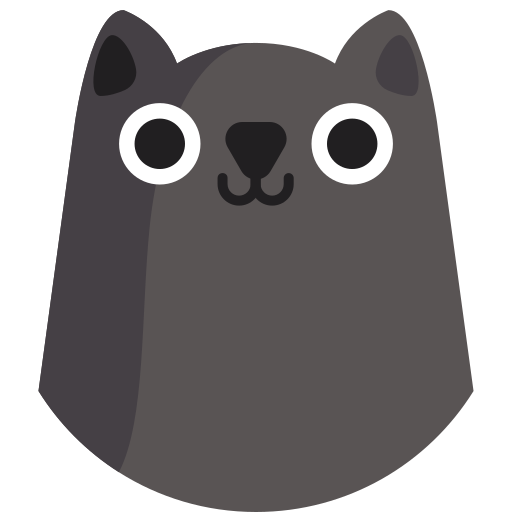
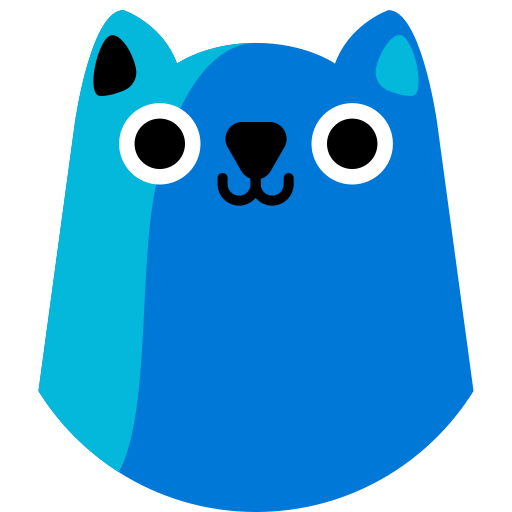
feat(windows): add launcher shortcut entrypoint
Route installer shortcuts through a lightweight launcher that starts the elevated task before falling back to the main executable. Build and verify the launcher during resource preparation, update CI resource checks, and remove the prior cross-integrity window message filter.

diff --git a/src-tauri/src/bin/routex-launcher.rs b/src-tauri/src/bin/routex-launcher.rs
@@ -1,0 +1,155 @@
+#![cfg_attr(target_os = "windows", windows_subsystem = "windows")]
+
+#[cfg(target_os = "windows")]
+mod windows_launcher {
+    use std::{
+        env,
+        ffi::c_void,
+        path::PathBuf,
+        process::Command,
+    };
+
+    use std::os::windows::process::CommandExt;
+
+    const CREATE_NO_WINDOW: u32 = 0x08000000;
+    const SW_SHOWNORMAL: i32 = 1;
+
+    #[link(name = "shell32")]
+    unsafe extern "system" {
+        fn ShellExecuteW(
+            hwnd: *mut c_void,
+            operation: *const u16,
+            file: *const u16,
+            parameters: *const u16,
+            directory: *const u16,
+            show_cmd: i32,
+        ) -> *mut c_void;
+    }
+
+    pub fn run() {
+        if run_elevate_task() {
+            return;
+        }
+
+        let _ = launch_main_exe();
+    }
+
+    fn run_elevate_task() -> bool {
+        Command::new(resolve_system_binary("schtasks.exe"))
+            .creation_flags(CREATE_NO_WINDOW)
+            .args(["/run", "/tn", routex_run_task_name()])
+            .status()
+            .map(|status| status.success())
+            .unwrap_or(false)
+    }
+
+    fn launch_main_exe() -> bool {
+        let Some(exe_path) = resolve_main_exe_path() else {
+            return false;
+        };
+        let Some(parent_dir) = exe_path.parent() else {
+            return false;
+        };
+
+        let params = env::args()
+            .skip(1)
+            .map(|arg| shell_execute_quote(&arg))
+            .collect::<Vec<_>>()
+            .join(" ");
+        let file = wide_null(exe_path.to_string_lossy());
+        let params = wide_null(&params);
+        let directory = wide_null(parent_dir.to_string_lossy());
+
+        let result = unsafe {
+            ShellExecuteW(
+                std::ptr::null_mut(),
+                std::ptr::null(),
+                file.as_ptr(),
+                params.as_ptr(),
+                directory.as_ptr(),
+                SW_SHOWNORMAL,
+            )
+        };
+
+        (result as usize) > 32
+    }
+
+    fn resolve_main_exe_path() -> Option<PathBuf> {
+        let current_exe = env::current_exe().ok()?;
+        let current_dir = current_exe.parent()?;
+        let candidates = [
+            current_dir.join("routex.exe"),
+            current_dir.join("..").join("..").join("routex.exe"),
+            current_dir.join("..").join("routex.exe"),
+        ];
+
+        candidates
+            .into_iter()
+            .find(|candidate| candidate.is_file())
+            .and_then(|candidate| candidate.canonicalize().ok().or(Some(candidate)))
+    }
+
+    fn routex_run_task_name() -> &'static str {
+        match option_env!("ROUTEX_TAURI_BUILD_VARIANT") {
+            Some("dev") => "routex-run-dev",
+            Some("autobuild") => "routex-run-autobuild",
+            _ => "routex-run",
+        }
+    }
+
+    fn resolve_system_binary(binary: &str) -> PathBuf {
+        for key in ["SystemRoot", "windir", "WINDIR"] {
+            if let Some(root) = env::var_os(key) {
+                let candidate = PathBuf::from(root).join("System32").join(binary);
+                if candidate.exists() {
+                    return candidate;
+                }
+            }
+        }
+
+        PathBuf::from(binary)
+    }
+
+    fn shell_execute_quote(value: &str) -> String {
+        if !value.chars().any(|ch| ch.is_whitespace() || ch == '"') {
+            return value.to_string();
+        }
+
+        format!("\"{}\"", value.replace('"', "\\\""))
+    }
+
+    fn wide_null(value: impl AsRef<str>) -> Vec<u16> {
+        value.as_ref().encode_utf16().chain(std::iter::once(0)).collect()
+    }
+
+    #[cfg(test)]
+    mod tests {
+        use super::*;
+
+        #[test]
+        fn quotes_shell_execute_arguments_with_spaces() {
+            assert_eq!(shell_execute_quote("plain"), "plain");
+            assert_eq!(shell_execute_quote("has space"), "\"has space\"");
+        }
+
+        #[test]
+        fn selects_task_name_from_build_variant() {
+            assert!(!routex_run_task_name().is_empty());
+        }
+
+        #[test]
+        fn candidate_paths_include_installed_resource_layout() {
+            let resource_dir = std::path::Path::new(r"C:\Program Files\RouteX\extra\files");
+            let expected = resource_dir.join("..").join("..").join("routex.exe");
+            assert!(expected.ends_with("routex.exe"));
+        }
+    }
+}
+
+#[cfg(target_os = "windows")]
+fn main() {
+    windows_launcher::run();
+}
+
+#[cfg(not(target_os = "windows"))]
+fn main() {}

diff --git a/src-tauri/src/desktop/app.rs b/src-tauri/src/desktop/app.rs
@@ -21,7 +21,6 @@ pub fn run() {
                 app_handle.exit(0);
                 return Ok(());
             }
-            allow_single_instance_messages_from_unelevated_launchers(&app_handle);
             let _ = initialize_traffic_stats_store(&app_handle);
             let _ = init_global_shortcuts(&app_handle);
             let _ = install_process_signal_handlers(&app_handle);
@@ -70,43 +69,3 @@ pub fn run() {
             }
         });
 }
-
-#[cfg(target_os = "windows")]
-fn allow_single_instance_messages_from_unelevated_launchers(app: &tauri::AppHandle) {
-    const WM_COPYDATA: u32 = 0x004A;
-    const MSGFLT_ALLOW: u32 = 1;
-
-    #[link(name = "user32")]
-    unsafe extern "system" {
-        fn FindWindowW(class_name: *const u16, window_name: *const u16) -> *mut std::ffi::c_void;
-        fn ChangeWindowMessageFilterEx(
-            hwnd: *mut std::ffi::c_void,
-            message: u32,
-            action: u32,
-            change_filter_struct: *mut std::ffi::c_void,
-        ) -> i32;
-    }
-
-    fn wide_null(value: &str) -> Vec<u16> {
-        value.encode_utf16().chain(std::iter::once(0)).collect()
-    }
-
-    let id = &app.config().identifier;
-    let class_name = wide_null(&format!("{id}-sic"));
-    let window_name = wide_null(&format!("{id}-siw"));
-
-    let hwnd = unsafe { FindWindowW(class_name.as_ptr(), window_name.as_ptr()) };
-    if !hwnd.is_null() {
-        let _ = unsafe {
-            ChangeWindowMessageFilterEx(
-                hwnd,
-                WM_COPYDATA,
-                MSGFLT_ALLOW,
-                std::ptr::null_mut(),
-            )
-        };
-    }
-}
-
-#[cfg(not(target_os = "windows"))]
-fn allow_single_instance_messages_from_unelevated_launchers(_app: &tauri::AppHandle) {}